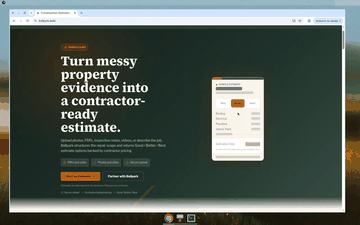
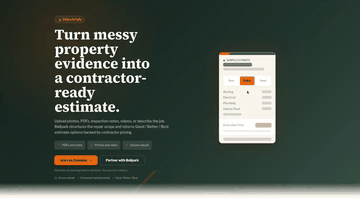
fix(ballpark): crop browser chrome and correct image caption (#48)
Regenerate responsive assets from a lossless cropped master, preserve existing redactions, and enforce truthful captions and metadata-free images.

Closes #26

diff --git a/index.html b/index.html
@@ -122,10 +122,10 @@
       </div>
       <figure class="product-image">
         <picture>
-          <source type="image/webp" srcset="/assets/ballpark-estimate-360.webp 360w, /assets/ballpark-estimate-480.webp 480w, /assets/ballpark-estimate-600.webp 600w, /assets/ballpark-estimate-720.webp 720w, /assets/ballpark-estimate-960.webp 960w, /assets/ballpark-estimate-1200.webp 1200w, /assets/ballpark-estimate-1280.webp 1280w" sizes="(max-width: 520px) calc(100vw - 112px), (max-width: 700px) calc(100vw - 120px), (max-width: 900px) min(600px, calc(100vw - 160px)), (max-width: 1240px) calc(47.5vw - 120px), (max-width: 1280px) calc(500px - 2.5vw), 468px">
-          <img src="/assets/ballpark-estimate-600.png" srcset="/assets/ballpark-estimate-360.png 360w, /assets/ballpark-estimate-480.png 480w, /assets/ballpark-estimate-600.png 600w, /assets/ballpark-estimate-720.png 720w, /assets/ballpark-estimate-960.png 960w, /assets/ballpark-estimate-1200.png 1200w, /assets/ballpark-estimate-1280.png 1280w" sizes="(max-width: 520px) calc(100vw - 112px), (max-width: 700px) calc(100vw - 120px), (max-width: 900px) min(600px, calc(100vw - 160px)), (max-width: 1240px) calc(47.5vw - 120px), (max-width: 1280px) calc(500px - 2.5vw), 468px" width="1280" height="800" loading="lazy" decoding="async" alt="Ballpark estimate interface showing a kitchen remodel with Good, Better, and Best pricing tiers.">
+          <source type="image/webp" srcset="/assets/ballpark-estimate-360.webp 360w, /assets/ballpark-estimate-480.webp 480w, /assets/ballpark-estimate-600.webp 600w, /assets/ballpark-estimate-720.webp 720w, /assets/ballpark-estimate-960.webp 960w, /assets/ballpark-estimate-1176.webp 1176w" sizes="(max-width: 520px) calc(100vw - 112px), (max-width: 700px) calc(100vw - 120px), (max-width: 900px) min(600px, calc(100vw - 160px)), (max-width: 1240px) calc(47.5vw - 120px), (max-width: 1280px) calc(500px - 2.5vw), 468px">
+          <img src="/assets/ballpark-estimate-600.png" srcset="/assets/ballpark-estimate-360.png 360w, /assets/ballpark-estimate-480.png 480w, /assets/ballpark-estimate-600.png 600w, /assets/ballpark-estimate-720.png 720w, /assets/ballpark-estimate-960.png 960w, /assets/ballpark-estimate-1176.png 1176w" sizes="(max-width: 520px) calc(100vw - 112px), (max-width: 700px) calc(100vw - 120px), (max-width: 900px) min(600px, calc(100vw - 160px)), (max-width: 1240px) calc(47.5vw - 120px), (max-width: 1280px) calc(500px - 2.5vw), 468px" width="1176" height="646" loading="lazy" decoding="async" alt="Ballpark.build home page with the headline 'Turn messy property evidence into a contractor-ready estimate' and a sample estimate card showing Good, Better and Best tiers, with customer details blocked out.">
         </picture>
-        <figcaption>Owner-authorized sanitized demo estimate. No personal data or customer information.</figcaption>
+        <figcaption>Real estimate, customer details redacted.</figcaption>
       </figure>
     </div>
   </aside>

diff --git a/work/index.html b/work/index.html
@@ -76,10 +76,10 @@
     </div>
     <figure class="work-image">
       <picture>
-        <source type="image/webp" srcset="/assets/ballpark-estimate-360.webp 360w, /assets/ballpark-estimate-480.webp 480w, /assets/ballpark-estimate-600.webp 600w, /assets/ballpark-estimate-720.webp 720w, /assets/ballpark-estimate-960.webp 960w, /assets/ballpark-estimate-1200.webp 1200w, /assets/ballpark-estimate-1280.webp 1280w" sizes="(max-width: 520px) calc(100vw - 34px), (max-width: 700px) calc(100vw - 42px), (max-width: 1240px) calc(100vw - 82px), 1158px">
-        <img src="/assets/ballpark-estimate-600.png" srcset="/assets/ballpark-estimate-360.png 360w, /assets/ballpark-estimate-480.png 480w, /assets/ballpark-estimate-600.png 600w, /assets/ballpark-estimate-720.png 720w, /assets/ballpark-estimate-960.png 960w, /assets/ballpark-estimate-1200.png 1200w, /assets/ballpark-estimate-1280.png 1280w" sizes="(max-width: 520px) calc(100vw - 34px), (max-width: 700px) calc(100vw - 42px), (max-width: 1240px) calc(100vw - 82px), 1158px" width="1280" height="800" decoding="async" alt="Ballpark estimate interface showing a kitchen remodel with Good, Better, and Best pricing tiers.">
+        <source type="image/webp" srcset="/assets/ballpark-estimate-360.webp 360w, /assets/ballpark-estimate-480.webp 480w, /assets/ballpark-estimate-600.webp 600w, /assets/ballpark-estimate-720.webp 720w, /assets/ballpark-estimate-960.webp 960w, /assets/ballpark-estimate-1176.webp 1176w" sizes="(max-width: 520px) calc(100vw - 34px), (max-width: 700px) calc(100vw - 42px), (max-width: 1240px) calc(100vw - 82px), 1158px">
+        <img src="/assets/ballpark-estimate-600.png" srcset="/assets/ballpark-estimate-360.png 360w, /assets/ballpark-estimate-480.png 480w, /assets/ballpark-estimate-600.png 600w, /assets/ballpark-estimate-720.png 720w, /assets/ballpark-estimate-960.png 960w, /assets/ballpark-estimate-1176.png 1176w" sizes="(max-width: 520px) calc(100vw - 34px), (max-width: 700px) calc(100vw - 42px), (max-width: 1240px) calc(100vw - 82px), 1158px" width="1176" height="646" decoding="async" alt="Ballpark.build home page with the headline 'Turn messy property evidence into a contractor-ready estimate' and a sample estimate card showing Good, Better and Best tiers, with customer details blocked out.">
       </picture>
-      <figcaption>Owner-authorized sanitized demo estimate. No personal data or customer information.</figcaption>
+      <figcaption>Real estimate, customer details redacted.</figcaption>
     </figure>
   </article>
 

diff --git a/tests/test_site.py b/tests/test_site.py
@@ -494,7 +494,7 @@ class ResponsiveImageTests(unittest.TestCase):
     def test_variants_exist_and_are_referenced(self):
         expected = {
             "portrait-nick": ("jpg", [160, 200, 320, 348, 400, 636]),
-            "ballpark-estimate": ("png", [360, 480, 600, 720, 960, 1200, 1280]),
+            "ballpark-estimate": ("png", [360, 480, 600, 720, 960, 1176]),
         }
         for page, names in (("home", list(expected)), ("work", ["ballpark-estimate"])):
             pictures = re.findall(r"<picture>.*?</picture>", _read_page(page), re.S)
@@ -523,26 +523,53 @@ class ResponsiveImageTests(unittest.TestCase):
                 ])
                 self.assertTrue(fallback["alt"])
                 self.assertEqual((fallback["width"], fallback["height"]),
-                                 ("636", "954") if name == "portrait-nick" else ("1280", "800"))
+                                 ("636", "954") if name == "portrait-nick" else ("1176", "646"))
                 self.assertEqual(fallback.get("loading"),
                                  "lazy" if page == "home" and name == "ballpark-estimate" else None)
 
     def test_ballpark_variants_match_master_ratio_and_carry_no_metadata(self):
         """Every Ballpark size is regenerated from one master (#26)."""
         master_w, master_h = _image_size(_path("assets/ballpark-estimate.png"))
-        self.assertEqual((master_w, master_h), (1280, 800))
-        for width in (360, 480, 600, 720, 960, 1200, 1280):
+        self.assertEqual((master_w, master_h), (1176, 646))
+        master_chunks = _image_chunks(_path("assets/ballpark-estimate.png"))
+        self.assertIn("IHDR", master_chunks, "master must be a real lossless PNG")
+        self.assertEqual(master_chunks["IHDR"][8:10], b"\x08\x02", "master must retain RGB pixels")
+        widths = (360, 480, 600, 720, 960, master_w)
+        expected_files = {_path("assets/ballpark-estimate.png")}
+        for width in widths:
             for ext in ("png", "webp"):
                 path = _path("assets/ballpark-estimate-%d.%s" % (width, ext))
+                expected_files.add(path)
                 with self.subTest(file=os.path.basename(path)):
                     w, h = _image_size(path)
                     self.assertEqual(w, width)
-                    self.assertEqual(w * master_h, h * master_w)
+                    self.assertLessEqual(w, master_w, "variants must not upscale")
+                    self.assertEqual(h, round(w * master_h / master_w))
+        self.assertEqual(set(glob.glob(_path("assets/ballpark-estimate*"))), expected_files)
         for path in sorted(glob.glob(_path("assets/ballpark-estimate*"))):
             with self.subTest(file=os.path.basename(path)):
-                self.assertFalse(
-                    set(_image_chunks(path)) & {"eXIf", "tEXt", "iTXt", "zTXt", "EXIF", "XMP "},
+                self.assertLessEqual(
+                    set(_image_chunks(path)),
+                    {"IHDR", "PLTE", "IDAT", "IEND", "tRNS", "VP8 ", "VP8L", "VP8X", "ALPH"},
                     "%s carries metadata" % path,
+                )
+
+    def test_ballpark_caption_and_alt_describe_the_redacted_image(self):
+        for page in ("home", "work"):
+            with self.subTest(page=page):
+                figure = next(block for block in re.findall(
+                    r"<figure\b.*?</figure>", _read_page(page), re.S
+                ) if "ballpark-estimate" in block)
+                caption = re.search(r"<figcaption>(.*?)</figcaption>", figure, re.S).group(1)
+                self.assertEqual(caption, "Real estimate, customer details redacted.")
+                self.assertNotIn("sanitized", caption.lower())
+                self.assertNotIn("no personal data", caption.lower())
+                alt = re.search(r'\balt="([^"]*)"', figure).group(1)
+                self.assertEqual(
+                    alt,
+                    "Ballpark.build home page with the headline 'Turn messy property evidence "
+                    "into a contractor-ready estimate' and a sample estimate card showing Good, "
+                    "Better and Best tiers, with customer details blocked out.",
                 )
 
 

diff --git a/README.md b/README.md
@@ -44,7 +44,7 @@ Open `http://127.0.0.1:8791/`, `http://127.0.0.1:8791/career/`,
 | `media/index.html` | Earlier media archive (seven incumbent podcast appearances) |
 | `styles.css` | Cream/forest/rust editorial design system |
 | `assets/portrait-nick.jpg` | Hero portrait |
-| `assets/ballpark-estimate.png` | Ballpark estimate screenshot |
+| `assets/ballpark-estimate.png` | Cropped Ballpark.build page, customer details redacted; lossless 1176×646 PNG master. Responsive PNG/WebP widths: 360, 480, 600, 720, 960, 1176. |
 | `assets/nick-giulioni-resume.pdf` | Downloadable resume (PDF) |
 | `vercel.json` | Security headers (CSP allows Google Fonts) |
 
